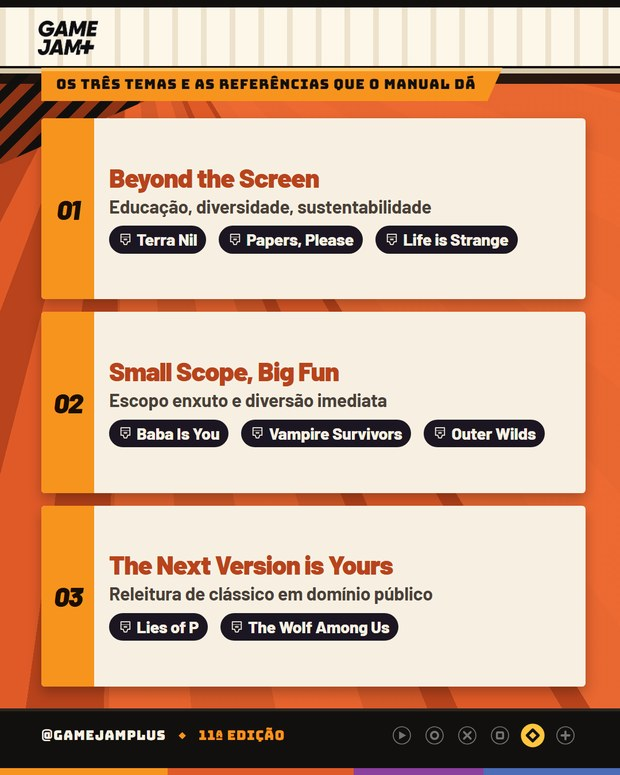
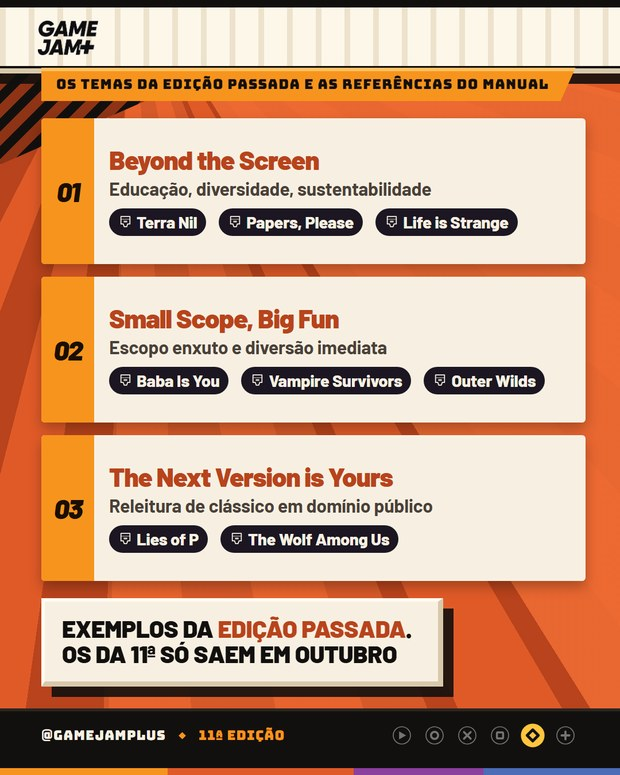
E03: o slide de temas volta a dizer que os temas sao da edicao passada
REGRESSAO MINHA, apontada pelo dono. Quando fundi os slides 5 e 6, o kicker
"Os tres temas DA EDICAO PASSADA" virou "Os tres temas e as referencias que o
manual da", e a etiqueta que carregava esse fato se foi. O cabecalho do proprio
deck avisa que e ela que faz o post nao vazar nada, e o manual da GJ+ proibe
adiantar tema da edicao corrente. Sem ela o slide lia como se aqueles fossem
os temas da 11a.

Conserto em dois niveis, porque o dono pediu que ficasse VISIVEL:
- kicker de volta com "da edicao passada"
- chapa nova fechando o slide: "Exemplos da EDICAO PASSADA. Os da 11a so saem
  em outubro" / "Examples from the LAST EDITION. The 11th only drops in
  October"

Somado ao ultimo slide, que ja dizia que os da 11a saem na abertura em
outubro, o fato aparece agora em tres pontos do carrossel.

Lint de composicao e de vicios passam nos dois idiomas.

diff --git a/index.html b/index.html
@@ -259,7 +259,7 @@ dialog img{width:min(92vw,620px);max-height:92dvh;object-fit:contain;border-radi
 <article class="c" data-cat="01-conteudos-gj" data-lang="PT" data-busca="e03 - como funcionam os temas gj+" id="c202">
   <header><div><span class="tagcat">GJ+</span><span class="taglang PT">PT</span><h2>E03 - Como funcionam os temas</h2></div>
   <div class="nav"><button aria-label="Anterior" data-d="-1">←</button><button aria-label="Próximo" data-d="1">→</button><span class="cont">6</span></div></header>
-  <div class="strip"><figure><img src="img/01-conteudos-gj-pt-e03-como-funcionam-os-temas/slide_01.jpg?v=5" alt="E03 - Como funcionam os temas 1" width="620" height="775" loading="lazy" decoding="async"><figcaption>01</figcaption></figure><figure><img src="img/01-conteudos-gj-pt-e03-como-funcionam-os-temas/slide_02.jpg?v=5" alt="E03 - Como funcionam os temas 2" width="620" height="775" loading="lazy" decoding="async"><figcaption>02</figcaption></figure><figure><img src="img/01-conteudos-gj-pt-e03-como-funcionam-os-temas/slide_03.jpg?v=5" alt="E03 - Como funcionam os temas 3" width="620" height="775" loading="lazy" decoding="async"><figcaption>03</figcaption></figure><figure><img src="img/01-conteudos-gj-pt-e03-como-funcionam-os-temas/slide_04.jpg?v=5" alt="E03 - Como funcionam os temas 4" width="620" height="775" loading="lazy" decoding="async"><figcaption>04</figcaption></figure><figure><img src="img/01-conteudos-gj-pt-e03-como-funcionam-os-temas/slide_05.jpg?v=5" alt="E03 - Como funcionam os temas 5" width="620" height="775" loading="lazy" decoding="async"><figcaption>05</figcaption></figure><figure><img src="img/01-conteudos-gj-pt-e03-como-funcionam-os-temas/slide_06.jpg?v=5" alt="E03 - Como funcionam os temas 6" width="620" height="775" loading="lazy" decoding="async"><figcaption>06</figcaption></figure></div></article>
+  <div class="strip"><figure><img src="img/01-conteudos-gj-pt-e03-como-funcionam-os-temas/slide_01.jpg?v=6" alt="E03 - Como funcionam os temas 1" width="620" height="775" loading="lazy" decoding="async"><figcaption>01</figcaption></figure><figure><img src="img/01-conteudos-gj-pt-e03-como-funcionam-os-temas/slide_02.jpg?v=6" alt="E03 - Como funcionam os temas 2" width="620" height="775" loading="lazy" decoding="async"><figcaption>02</figcaption></figure><figure><img src="img/01-conteudos-gj-pt-e03-como-funcionam-os-temas/slide_03.jpg?v=6" alt="E03 - Como funcionam os temas 3" width="620" height="775" loading="lazy" decoding="async"><figcaption>03</figcaption></figure><figure><img src="img/01-conteudos-gj-pt-e03-como-funcionam-os-temas/slide_04.jpg?v=6" alt="E03 - Como funcionam os temas 4" width="620" height="775" loading="lazy" decoding="async"><figcaption>04</figcaption></figure><figure><img src="img/01-conteudos-gj-pt-e03-como-funcionam-os-temas/slide_05.jpg?v=6" alt="E03 - Como funcionam os temas 5" width="620" height="775" loading="lazy" decoding="async"><figcaption>05</figcaption></figure><figure><img src="img/01-conteudos-gj-pt-e03-como-funcionam-os-temas/slide_06.jpg?v=6" alt="E03 - Como funcionam os temas 6" width="620" height="775" loading="lazy" decoding="async"><figcaption>06</figcaption></figure></div></article>
 <article class="c" data-cat="01-conteudos-gj" data-lang="PT" data-busca="c02 - wildlife e crazygames gj+" id="c203">
   <header><div><span class="tagcat">GJ+</span><span class="taglang PT">PT</span><h2>C02 - Wildlife e CrazyGames</h2></div>
   <div class="nav"><button aria-label="Anterior" data-d="-1">←</button><button aria-label="Próximo" data-d="1">→</button><span class="cont">8</span></div></header>
@@ -427,7 +427,7 @@ dialog img{width:min(92vw,620px);max-height:92dvh;object-fit:contain;border-radi
 <article class="c" data-cat="01-conteudos-gj" data-lang="EN" data-busca="e03 - how the themes work gj+" id="c206">
   <header><div><span class="tagcat">GJ+</span><span class="taglang EN">EN</span><h2>E03 - How the themes work</h2></div>
   <div class="nav"><button aria-label="Anterior" data-d="-1">←</button><button aria-label="Próximo" data-d="1">→</button><span class="cont">6</span></div></header>
-  <div class="strip"><figure><img src="img/01-conteudos-gj-en-e03-how-the-themes-work/slide_01.jpg?v=5" alt="E03 - How the themes work 1" width="620" height="775" loading="lazy" decoding="async"><figcaption>01</figcaption></figure><figure><img src="img/01-conteudos-gj-en-e03-how-the-themes-work/slide_02.jpg?v=5" alt="E03 - How the themes work 2" width="620" height="775" loading="lazy" decoding="async"><figcaption>02</figcaption></figure><figure><img src="img/01-conteudos-gj-en-e03-how-the-themes-work/slide_03.jpg?v=5" alt="E03 - How the themes work 3" width="620" height="775" loading="lazy" decoding="async"><figcaption>03</figcaption></figure><figure><img src="img/01-conteudos-gj-en-e03-how-the-themes-work/slide_04.jpg?v=5" alt="E03 - How the themes work 4" width="620" height="775" loading="lazy" decoding="async"><figcaption>04</figcaption></figure><figure><img src="img/01-conteudos-gj-en-e03-how-the-themes-work/slide_05.jpg?v=5" alt="E03 - How the themes work 5" width="620" height="775" loading="lazy" decoding="async"><figcaption>05</figcaption></figure><figure><img src="img/01-conteudos-gj-en-e03-how-the-themes-work/slide_06.jpg?v=5" alt="E03 - How the themes work 6" width="620" height="775" loading="lazy" decoding="async"><figcaption>06</figcaption></figure></div></article>
+  <div class="strip"><figure><img src="img/01-conteudos-gj-en-e03-how-the-themes-work/slide_01.jpg?v=6" alt="E03 - How the themes work 1" width="620" height="775" loading="lazy" decoding="async"><figcaption>01</figcaption></figure><figure><img src="img/01-conteudos-gj-en-e03-how-the-themes-work/slide_02.jpg?v=6" alt="E03 - How the themes work 2" width="620" height="775" loading="lazy" decoding="async"><figcaption>02</figcaption></figure><figure><img src="img/01-conteudos-gj-en-e03-how-the-themes-work/slide_03.jpg?v=6" alt="E03 - How the themes work 3" width="620" height="775" loading="lazy" decoding="async"><figcaption>03</figcaption></figure><figure><img src="img/01-conteudos-gj-en-e03-how-the-themes-work/slide_04.jpg?v=6" alt="E03 - How the themes work 4" width="620" height="775" loading="lazy" decoding="async"><figcaption>04</figcaption></figure><figure><img src="img/01-conteudos-gj-en-e03-how-the-themes-work/slide_05.jpg?v=6" alt="E03 - How the themes work 5" width="620" height="775" loading="lazy" decoding="async"><figcaption>05</figcaption></figure><figure><img src="img/01-conteudos-gj-en-e03-how-the-themes-work/slide_06.jpg?v=6" alt="E03 - How the themes work 6" width="620" height="775" loading="lazy" decoding="async"><figcaption>06</figcaption></figure></div></article>
 <article class="c" data-cat="01-conteudos-gj" data-lang="EN" data-busca="c02 - wildlife and crazygames gj+" id="c207">
   <header><div><span class="tagcat">GJ+</span><span class="taglang EN">EN</span><h2>C02 - Wildlife and CrazyGames</h2></div>
   <div class="nav"><button aria-label="Anterior" data-d="-1">←</button><button aria-label="Próximo" data-d="1">→</button><span class="cont">8</span></div></header>
